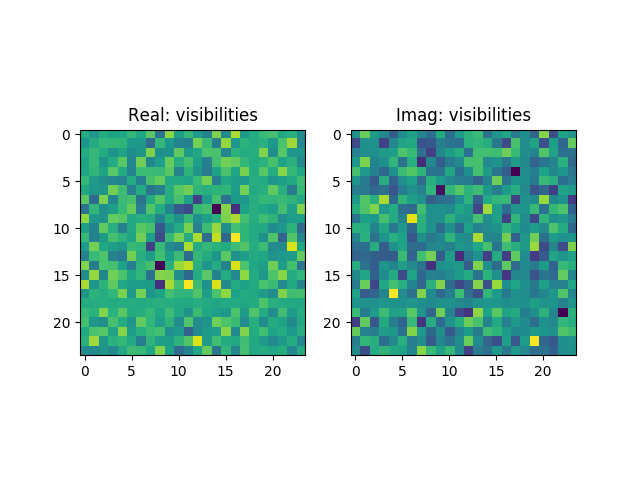
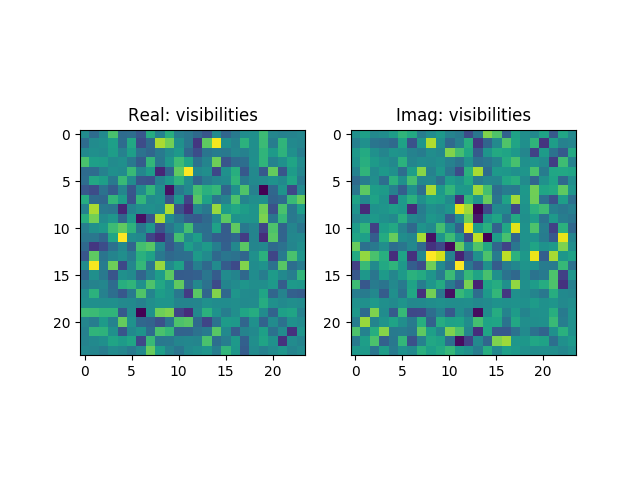
got it to sample visibilites

Changed region(s): [[0.5312, 0.25, 0.9062, 0.75], [0.125, 0.25, 0.5, 0.75]]

diff --git a/example.lsm.html b/example.lsm.html
@@ -1,0 +1,88 @@
+<html><head>
+<meta http-equiv="content-type" content="text/html; charset=windows-1252"></head><body mdltype="SkyModel">
+<h1>Source list</h1>
+<table frame="box" rules="all" cellpadding="5" border="1">
+<tbody><tr mdltype="Source"><td mdltype="str" mdlval="'14_J1845M76'"><a>name:14_J1845M76</a> </td> <td mdltype="Position"><a mdltype="float" mdlval="4.9793225450667888"></a><a>ra:4.97932254507</a>  <a mdltype="float" mdlval="-1.3155380451812768"></a><a>dec:-1.31553804518</a>  </td> <td mdltype="Polarization"><a mdltype="float" mdlval="0.19389999999999999"></a><a>I:0.1939</a>  <a mdltype="int" mdlval="0"></a><a>Q:0</a>  <a mdltype="int" mdlval="0"></a><a>U:0</a>  <a mdltype="int" mdlval="0"></a><a>V:0</a>  </td> <td mdltype="float" mdlattr="r" mdlval="0.015129586926423459"><a>r:0.0151295869264</a> </td> </tr>
+
+<tr mdltype="Source"><td mdltype="str" mdlval="'16_J1845M76'"><a>name:16_J1845M76</a> </td> <td mdltype="Position"><a mdltype="float" mdlval="4.9810780554060861"></a><a>ra:4.98107805541</a>  <a mdltype="float" mdlval="-1.3043495150486313"></a><a>dec:-1.30434951505</a>  </td> <td mdltype="Polarization"><a mdltype="float" mdlval="0.060199999999999997"></a><a>I:0.0602</a>  <a mdltype="int" mdlval="0"></a><a>Q:0</a>  <a mdltype="int" mdlval="0"></a><a>U:0</a>  <a mdltype="int" mdlval="0"></a><a>V:0</a>  </td> <td mdltype="float" mdlattr="r" mdlval="0.011050735118466508"><a>r:0.0110507351185</a> </td> </tr>
+
+<tr mdltype="Source"><td mdltype="str" mdlval="'17_J1930M76'"><a>name:17_J1930M76</a> </td> <td mdltype="Position"><a mdltype="float" mdlval="4.9814096679639652"></a><a>ra:4.98140966796</a>  <a mdltype="float" mdlval="-1.3053317475665589"></a><a>dec:-1.30533174757</a>  </td> <td mdltype="Polarization"><a mdltype="float" mdlval="0.0998"></a><a>I:0.0998</a>  <a mdltype="int" mdlval="0"></a><a>Q:0</a>  <a mdltype="int" mdlval="0"></a><a>U:0</a>  <a mdltype="int" mdlval="0"></a><a>V:0</a>  </td> <td mdltype="float" mdlattr="r" mdlval="0.01089473246548155"><a>r:0.0108947324655</a> </td> </tr>
+
+<tr mdltype="Source"><td mdltype="str" mdlval="'18_J1930M76'"><a>name:18_J1930M76</a> </td> <td mdltype="Position"><a mdltype="float" mdlval="4.9842247386033289"></a><a>ra:4.9842247386</a>  <a mdltype="float" mdlval="-1.2928240394076143"></a><a>dec:-1.29282403941</a>  </td> <td mdltype="Polarization"><a mdltype="float" mdlval="0.063200000000000006"></a><a>I:0.0632</a>  <a mdltype="int" mdlval="0"></a><a>Q:0</a>  <a mdltype="int" mdlval="0"></a><a>U:0</a>  <a mdltype="int" mdlval="0"></a><a>V:0</a>  </td> <td mdltype="float" mdlattr="r" mdlval="0.01630501556684372"><a>r:0.0163050155668</a> </td> </tr>
+
+<tr mdltype="Source"><td mdltype="str" mdlval="'20_J1845M76'"><a>name:20_J1845M76</a> </td> <td mdltype="Position"><a mdltype="float" mdlval="4.9901617669421956"></a><a>ra:4.99016176694</a>  <a mdltype="float" mdlval="-1.3130242862447241"></a><a>dec:-1.31302428624</a>  </td> <td mdltype="Polarization"><a mdltype="float" mdlval="0.14580000000000001"></a><a>I:0.1458</a>  <a mdltype="int" mdlval="0"></a><a>Q:0</a>  <a mdltype="int" mdlval="0"></a><a>U:0</a>  <a mdltype="int" mdlval="0"></a><a>V:0</a>  </td> <td mdltype="float" mdlattr="r" mdlval="0.011405302125507446"><a>r:0.0114053021255</a> </td> </tr>
+
+<tr mdltype="Source"><td mdltype="str" mdlval="'21_J1930M76'"><a>name:21_J1930M76</a> </td> <td mdltype="Position"><a mdltype="float" mdlval="4.9941716608986519"></a><a>ra:4.9941716609</a>  <a mdltype="float" mdlval="-1.3066528648475826"></a><a>dec:-1.30665286485</a>  </td> <td mdltype="Polarization"><a mdltype="float" mdlval="0.77569999999999995"></a><a>I:0.7757</a>  <a mdltype="int" mdlval="0"></a><a>Q:0</a>  <a mdltype="int" mdlval="0"></a><a>U:0</a>  <a mdltype="int" mdlval="0"></a><a>V:0</a>  </td> <td mdltype="float" mdlattr="r" mdlval="0.0076336473061226241"><a>r:0.00763364730612</a> </td> </tr>
+
+<tr mdltype="Source"><td mdltype="str" mdlval="'22_J1930M72'"><a>name:22_J1930M72</a> </td> <td mdltype="Position"><a mdltype="float" mdlval="4.9979110288210498"></a><a>ra:4.99791102882</a>  <a mdltype="float" mdlval="-1.2886463999174931"></a><a>dec:-1.28864639992</a>  </td> <td mdltype="Polarization"><a mdltype="float" mdlval="1.8819999999999999"></a><a>I:1.882</a>  <a mdltype="int" mdlval="0"></a><a>Q:0</a>  <a mdltype="int" mdlval="0"></a><a>U:0</a>  <a mdltype="int" mdlval="0"></a><a>V:0</a>  </td> <td mdltype="float" mdlattr="r" mdlval="0.018060503909817494"><a>r:0.0180605039098</a> </td> </tr>
+
+<tr mdltype="Source"><td mdltype="str" mdlval="'23_J1930M72'"><a>name:23_J1930M72</a> </td> <td mdltype="Position"><a mdltype="float" mdlval="4.9995414572306212"></a><a>ra:4.99954145723</a>  <a mdltype="float" mdlval="-1.2885775563747757"></a><a>dec:-1.28857755637</a>  </td> <td mdltype="Polarization"><a mdltype="float" mdlval="0.1206"></a><a>I:0.1206</a>  <a mdltype="int" mdlval="0"></a><a>Q:0</a>  <a mdltype="int" mdlval="0"></a><a>U:0</a>  <a mdltype="int" mdlval="0"></a><a>V:0</a>  </td> <td mdltype="float" mdlattr="r" mdlval="0.017964848833106027"><a>r:0.0179648488331</a> </td> </tr>
+
+<tr mdltype="Source"><td mdltype="str" mdlval="'25_J1845M76'"><a>name:25_J1845M76</a> </td> <td mdltype="Position"><a mdltype="float" mdlval="5.0027208653513373"></a><a>ra:5.00272086535</a>  <a mdltype="float" mdlval="-1.297985365856706"></a><a>dec:-1.29798536586</a>  </td> <td mdltype="Polarization"><a mdltype="float" mdlval="0.081600000000000006"></a><a>I:0.0816</a>  <a mdltype="int" mdlval="0"></a><a>Q:0</a>  <a mdltype="int" mdlval="0"></a><a>U:0</a>  <a mdltype="int" mdlval="0"></a><a>V:0</a>  </td> <td mdltype="float" mdlattr="r" mdlval="0.0091528901029056097"><a>r:0.00915289010291</a> </td> </tr>
+
+<tr mdltype="Source"><td mdltype="str" mdlval="'26_J1845M76'"><a>name:26_J1845M76</a> </td> <td mdltype="Position"><a mdltype="float" mdlval="5.0044887384395045"></a><a>ra:5.00448873844</a>  <a mdltype="float" mdlval="-1.3121981637321136"></a><a>dec:-1.31219816373</a>  </td> <td mdltype="Polarization"><a mdltype="float" mdlval="0.082600000000000007"></a><a>I:0.0826</a>  <a mdltype="int" mdlval="0"></a><a>Q:0</a>  <a mdltype="int" mdlval="0"></a><a>U:0</a>  <a mdltype="int" mdlval="0"></a><a>V:0</a>  </td> <td mdltype="float" mdlattr="r" mdlval="0.0083156807346767402"><a>r:0.00831568073468</a> </td> </tr>
+
+<tr mdltype="Source"><td mdltype="str" mdlval="'29_J1845M76'"><a>name:29_J1845M76</a> </td> <td mdltype="Position"><a mdltype="float" mdlval="5.0120358330133357"></a><a>ra:5.01203583301</a>  <a mdltype="float" mdlval="-1.3111412699072946"></a><a>dec:-1.31114126991</a>  </td> <td mdltype="Polarization"><a mdltype="float" mdlval="0.15310000000000001"></a><a>I:0.1531</a>  <a mdltype="int" mdlval="0"></a><a>Q:0</a>  <a mdltype="int" mdlval="0"></a><a>U:0</a>  <a mdltype="int" mdlval="0"></a><a>V:0</a>  </td> <td mdltype="float" mdlattr="r" mdlval="0.0064072108414104829"><a>r:0.00640721084141</a> </td> </tr>
+
+<tr mdltype="Source"><td mdltype="str" mdlval="'30_J1930M76'"><a>name:30_J1930M76</a> </td> <td mdltype="Position"><a mdltype="float" mdlval="5.0142749449995394"></a><a>ra:5.014274945</a>  <a mdltype="float" mdlval="-1.2996007650421633"></a><a>dec:-1.29960076504</a>  </td> <td mdltype="Polarization"><a mdltype="float" mdlval="0.1525"></a><a>I:0.1525</a>  <a mdltype="int" mdlval="0"></a><a>Q:0</a>  <a mdltype="int" mdlval="0"></a><a>U:0</a>  <a mdltype="int" mdlval="0"></a><a>V:0</a>  </td> <td mdltype="float" mdlattr="r" mdlval="0.0062315174697180637"><a>r:0.00623151746972</a> </td> </tr>
+
+<tr mdltype="Source"><td mdltype="str" mdlval="'31_J1845M76'"><a>name:31_J1845M76</a> </td> <td mdltype="Position"><a mdltype="float" mdlval="5.0194709356268321"></a><a>ra:5.01947093563</a>  <a mdltype="float" mdlval="-1.2966661878304071"></a><a>dec:-1.29666618783</a>  </td> <td mdltype="Polarization"><a mdltype="float" mdlval="0.1167"></a><a>I:0.1167</a>  <a mdltype="int" mdlval="0"></a><a>Q:0</a>  <a mdltype="int" mdlval="0"></a><a>U:0</a>  <a mdltype="int" mdlval="0"></a><a>V:0</a>  </td> <td mdltype="float" mdlattr="r" mdlval="0.0087758148399466156"><a>r:0.00877581483995</a> </td> </tr>
+
+<tr mdltype="Source"><td mdltype="str" mdlval="'32_J1845M76'"><a>name:32_J1845M76</a> </td> <td mdltype="Position"><a mdltype="float" mdlval="5.0201610679018911"></a><a>ra:5.0201610679</a>  <a mdltype="float" mdlval="-1.3076452784528139"></a><a>dec:-1.30764527845</a>  </td> <td mdltype="Polarization"><a mdltype="float" mdlval="0.1721"></a><a>I:0.1721</a>  <a mdltype="int" mdlval="0"></a><a>Q:0</a>  <a mdltype="int" mdlval="0"></a><a>U:0</a>  <a mdltype="int" mdlval="0"></a><a>V:0</a>  </td> <td mdltype="float" mdlattr="r" mdlval="0.0023664618364341739"><a>r:0.00236646183643</a> </td> </tr>
+
+<tr mdltype="Source"><td mdltype="str" mdlval="'33_J1845M76'"><a>name:33_J1845M76</a> </td> <td mdltype="Position"><a mdltype="float" mdlval="5.0211886304990028"></a><a>ra:5.0211886305</a>  <a mdltype="float" mdlval="-1.3077015168398225"></a><a>dec:-1.30770151684</a>  </td> <td mdltype="Polarization"><a mdltype="float" mdlval="0.10589999999999999"></a><a>I:0.1059</a>  <a mdltype="int" mdlval="0"></a><a>Q:0</a>  <a mdltype="int" mdlval="0"></a><a>U:0</a>  <a mdltype="int" mdlval="0"></a><a>V:0</a>  </td> <td mdltype="float" mdlattr="r" mdlval="0.0023533899470462535"><a>r:0.00235338994705</a> </td> </tr>
+
+<tr mdltype="Source"><td mdltype="str" mdlval="'34_J1930M76'"><a>name:34_J1930M76</a> </td> <td mdltype="Position"><a mdltype="float" mdlval="5.0214686103998432"></a><a>ra:5.0214686104</a>  <a mdltype="float" mdlval="-1.2984755124883083"></a><a>dec:-1.29847551249</a>  </td> <td mdltype="Polarization"><a mdltype="float" mdlval="0.069900000000000004"></a><a>I:0.0699</a>  <a mdltype="int" mdlval="0"></a><a>Q:0</a>  <a mdltype="int" mdlval="0"></a><a>U:0</a>  <a mdltype="int" mdlval="0"></a><a>V:0</a>  </td> <td mdltype="float" mdlattr="r" mdlval="0.0069287091436383537"><a>r:0.00692870914364</a> </td> </tr>
+
+<tr mdltype="Source"><td mdltype="str" mdlval="'35_J1845M76'"><a>name:35_J1845M76</a> </td> <td mdltype="Position"><a mdltype="float" mdlval="5.0225478056539927"></a><a>ra:5.02254780565</a>  <a mdltype="float" mdlval="-1.3073897816428692"></a><a>dec:-1.30738978164</a>  </td> <td mdltype="Polarization"><a mdltype="float" mdlval="0.223"></a><a>I:0.223</a>  <a mdltype="int" mdlval="0"></a><a>Q:0</a>  <a mdltype="int" mdlval="0"></a><a>U:0</a>  <a mdltype="int" mdlval="0"></a><a>V:0</a>  </td> <td mdltype="float" mdlattr="r" mdlval="0.001999264926316858"><a>r:0.00199926492632</a> </td> </tr>
+
+<tr mdltype="Source"><td mdltype="str" mdlval="'36_J1845M76'"><a>name:36_J1845M76</a> </td> <td mdltype="Position"><a mdltype="float" mdlval="5.0254261444787405"></a><a>ra:5.02542614448</a>  <a mdltype="float" mdlval="-1.296886293241631"></a><a>dec:-1.29688629324</a>  </td> <td mdltype="Polarization"><a mdltype="float" mdlval="0.29149999999999998"></a><a>I:0.2915</a>  <a mdltype="int" mdlval="0"></a><a>Q:0</a>  <a mdltype="int" mdlval="0"></a><a>U:0</a>  <a mdltype="int" mdlval="0"></a><a>V:0</a>  </td> <td mdltype="float" mdlattr="r" mdlval="0.0085324589432205222"><a>r:0.00853245894322</a> </td> </tr>
+
+<tr mdltype="Source"><td mdltype="str" mdlval="'37_J1845M76'"><a>name:37_J1845M76</a> </td> <td mdltype="Position"><a mdltype="float" mdlval="5.0263657133927309"></a><a>ra:5.02636571339</a>  <a mdltype="float" mdlval="-1.2970244651407472"></a><a>dec:-1.29702446514</a>  </td> <td mdltype="Polarization"><a mdltype="float" mdlval="0.1275"></a><a>I:0.1275</a>  <a mdltype="int" mdlval="0"></a><a>Q:0</a>  <a mdltype="int" mdlval="0"></a><a>U:0</a>  <a mdltype="int" mdlval="0"></a><a>V:0</a>  </td> <td mdltype="float" mdlattr="r" mdlval="0.0084181016272927862"><a>r:0.00841810162729</a> </td> </tr>
+
+<tr mdltype="Source"><td mdltype="str" mdlval="'38_J1845M76'"><a>name:38_J1845M76</a> </td> <td mdltype="Position"><a mdltype="float" mdlval="5.0277685217790218"></a><a>ra:5.02776852178</a>  <a mdltype="float" mdlval="-1.3190233707347734"></a><a>dec:-1.31902337073</a>  </td> <td mdltype="Polarization"><a mdltype="float" mdlval="0.10970000000000001"></a><a>I:0.1097</a>  <a mdltype="int" mdlval="0"></a><a>Q:0</a>  <a mdltype="int" mdlval="0"></a><a>U:0</a>  <a mdltype="int" mdlval="0"></a><a>V:0</a>  </td> <td mdltype="float" mdlattr="r" mdlval="0.01368544232596625"><a>r:0.013685442326</a> </td> </tr>
+
+<tr mdltype="Source"><td mdltype="str" mdlval="'39_J1930M76'"><a>name:39_J1930M76</a> </td> <td mdltype="Position"><a mdltype="float" mdlval="5.0305275964382155"></a><a>ra:5.03052759644</a>  <a mdltype="float" mdlval="-1.3001553918933524"></a><a>dec:-1.30015539189</a>  </td> <td mdltype="Polarization"><a mdltype="float" mdlval="0.1774"></a><a>I:0.1774</a>  <a mdltype="int" mdlval="0"></a><a>Q:0</a>  <a mdltype="int" mdlval="0"></a><a>U:0</a>  <a mdltype="int" mdlval="0"></a><a>V:0</a>  </td> <td mdltype="float" mdlattr="r" mdlval="0.0056096031168557268"><a>r:0.00560960311686</a> </td> </tr>
+
+<tr mdltype="Source"><td mdltype="str" mdlval="'40_J1845M76'"><a>name:40_J1845M76</a> </td> <td mdltype="Position"><a mdltype="float" mdlval="5.0306628594552452"></a><a>ra:5.03066285946</a>  <a mdltype="float" mdlval="-1.3077446652574414"></a><a>dec:-1.30774466526</a>  </td> <td mdltype="Polarization"><a mdltype="float" mdlval="0.1643"></a><a>I:0.1643</a>  <a mdltype="int" mdlval="0"></a><a>Q:0</a>  <a mdltype="int" mdlval="0"></a><a>U:0</a>  <a mdltype="int" mdlval="0"></a><a>V:0</a>  </td> <td mdltype="float" mdlattr="r" mdlval="0.0030973438358698714"><a>r:0.00309734383587</a> </td> </tr>
+
+<tr mdltype="Source"><td mdltype="str" mdlval="'41_J1845M76'"><a>name:41_J1845M76</a> </td> <td mdltype="Position"><a mdltype="float" mdlval="5.0360297469051281"></a><a>ra:5.03602974691</a>  <a mdltype="float" mdlval="-1.3135633990581177"></a><a>dec:-1.31356339906</a>  </td> <td mdltype="Polarization"><a mdltype="float" mdlval="0.066000000000000003"></a><a>I:0.066</a>  <a mdltype="int" mdlval="0"></a><a>Q:0</a>  <a mdltype="int" mdlval="0"></a><a>U:0</a>  <a mdltype="int" mdlval="0"></a><a>V:0</a>  </td> <td mdltype="float" mdlattr="r" mdlval="0.0088418105844684756"><a>r:0.00884181058447</a> </td> </tr>
+
+<tr mdltype="Source"><td mdltype="str" mdlval="'43_J1930M76'"><a>name:43_J1930M76</a> </td> <td mdltype="Position"><a mdltype="float" mdlval="5.0435972036535661"></a><a>ra:5.04359720365</a>  <a mdltype="float" mdlval="-1.3030671828620966"></a><a>dec:-1.30306718286</a>  </td> <td mdltype="Polarization"><a mdltype="float" mdlval="1.1419999999999999"></a><a>I:1.142</a>  <a mdltype="int" mdlval="0"></a><a>Q:0</a>  <a mdltype="int" mdlval="0"></a><a>U:0</a>  <a mdltype="int" mdlval="0"></a><a>V:0</a>  </td> <td mdltype="float" mdlattr="r" mdlval="0.0059167882891283559"><a>r:0.00591678828913</a> </td> </tr>
+
+<tr mdltype="Source"><td mdltype="str" mdlval="'45_J1845M76'"><a>name:45_J1845M76</a> </td> <td mdltype="Position"><a mdltype="float" mdlval="5.0467380690866346"></a><a>ra:5.04673806909</a>  <a mdltype="float" mdlval="-1.3118287357071079"></a><a>dec:-1.31182873571</a>  </td> <td mdltype="Polarization"><a mdltype="float" mdlval="0.0562"></a><a>I:0.0562</a>  <a mdltype="int" mdlval="0"></a><a>Q:0</a>  <a mdltype="int" mdlval="0"></a><a>U:0</a>  <a mdltype="int" mdlval="0"></a><a>V:0</a>  </td> <td mdltype="float" mdlattr="r" mdlval="0.0089130757764651885"><a>r:0.00891307577647</a> </td> </tr>
+
+<tr mdltype="Source"><td mdltype="str" mdlval="'46_J1930M76'"><a>name:46_J1930M76</a> </td> <td mdltype="Position"><a mdltype="float" mdlval="5.047134404270941"></a><a>ra:5.04713440427</a>  <a mdltype="float" mdlval="-1.312360091501604"></a><a>dec:-1.3123600915</a>  </td> <td mdltype="Polarization"><a mdltype="float" mdlval="0.1852"></a><a>I:0.1852</a>  <a mdltype="int" mdlval="0"></a><a>Q:0</a>  <a mdltype="int" mdlval="0"></a><a>U:0</a>  <a mdltype="int" mdlval="0"></a><a>V:0</a>  </td> <td mdltype="float" mdlattr="r" mdlval="0.0093681629509324276"><a>r:0.00936816295093</a> </td> </tr>
+
+<tr mdltype="Source"><td mdltype="str" mdlval="'47_J1930M76'"><a>name:47_J1930M76</a> </td> <td mdltype="Position"><a mdltype="float" mdlval="5.0507748702023942"></a><a>ra:5.0507748702</a>  <a mdltype="float" mdlval="-1.3011390788523238"></a><a>dec:-1.30113907885</a>  </td> <td mdltype="Polarization"><a mdltype="float" mdlval="0.0746"></a><a>I:0.0746</a>  <a mdltype="int" mdlval="0"></a><a>Q:0</a>  <a mdltype="int" mdlval="0"></a><a>U:0</a>  <a mdltype="int" mdlval="0"></a><a>V:0</a>  </td> <td mdltype="float" mdlattr="r" mdlval="0.0084981010394518473"><a>r:0.00849810103945</a> </td> </tr>
+
+<tr mdltype="Source"><td mdltype="str" mdlval="'49_J1930M76'"><a>name:49_J1930M76</a> </td> <td mdltype="Position"><a mdltype="float" mdlval="5.0551563738454206"></a><a>ra:5.05515637385</a>  <a mdltype="float" mdlval="-1.3047179734462744"></a><a>dec:-1.30471797345</a>  </td> <td mdltype="Polarization"><a mdltype="float" mdlval="0.077399999999999997"></a><a>I:0.0774</a>  <a mdltype="int" mdlval="0"></a><a>Q:0</a>  <a mdltype="int" mdlval="0"></a><a>U:0</a>  <a mdltype="int" mdlval="0"></a><a>V:0</a>  </td> <td mdltype="float" mdlattr="r" mdlval="0.0084863129772227413"><a>r:0.00848631297722</a> </td> </tr>
+
+<tr mdltype="Source"><td mdltype="str" mdlval="'50_J1930M72'"><a>name:50_J1930M72</a> </td> <td mdltype="Position"><a mdltype="float" mdlval="5.057264586137725"></a><a>ra:5.05726458614</a>  <a mdltype="float" mdlval="-1.2923692841747334"></a><a>dec:-1.29236928417</a>  </td> <td mdltype="Polarization"><a mdltype="float" mdlval="0.073700000000000002"></a><a>I:0.0737</a>  <a mdltype="int" mdlval="0"></a><a>Q:0</a>  <a mdltype="int" mdlval="0"></a><a>U:0</a>  <a mdltype="int" mdlval="0"></a><a>V:0</a>  </td> <td mdltype="float" mdlattr="r" mdlval="0.015953481470300162"><a>r:0.0159534814703</a> </td> </tr>
+
+<tr mdltype="Source"><td mdltype="str" mdlval="'51_J1930M76'"><a>name:51_J1930M76</a> </td> <td mdltype="Position"><a mdltype="float" mdlval="5.058593945251328"></a><a>ra:5.05859394525</a>  <a mdltype="float" mdlval="-1.2992536384464888"></a><a>dec:-1.29925363845</a>  </td> <td mdltype="Polarization"><a mdltype="float" mdlval="0.1608"></a><a>I:0.1608</a>  <a mdltype="int" mdlval="0"></a><a>Q:0</a>  <a mdltype="int" mdlval="0"></a><a>U:0</a>  <a mdltype="int" mdlval="0"></a><a>V:0</a>  </td> <td mdltype="float" mdlattr="r" mdlval="0.011273673556167171"><a>r:0.0112736735562</a> </td> </tr>
+
+<tr mdltype="Source"><td mdltype="str" mdlval="'52_J1930M76'"><a>name:52_J1930M76</a> </td> <td mdltype="Position"><a mdltype="float" mdlval="5.0607581535238007"></a><a>ra:5.06075815352</a>  <a mdltype="float" mdlval="-1.3020083497825532"></a><a>dec:-1.30200834978</a>  </td> <td mdltype="Polarization"><a mdltype="float" mdlval="0.41789999999999999"></a><a>I:0.4179</a>  <a mdltype="int" mdlval="0"></a><a>Q:0</a>  <a mdltype="int" mdlval="0"></a><a>U:0</a>  <a mdltype="int" mdlval="0"></a><a>V:0</a>  </td> <td mdltype="float" mdlattr="r" mdlval="0.010537901348827801"><a>r:0.0105379013488</a> </td> </tr>
+
+<tr mdltype="Source"><td mdltype="str" mdlval="'54_J1930M76'"><a>name:54_J1930M76</a> </td> <td mdltype="Position"><a mdltype="float" mdlval="5.06687480533152"></a><a>ra:5.06687480533</a>  <a mdltype="float" mdlval="-1.2991048006463883"></a><a>dec:-1.29910480065</a>  </td> <td mdltype="Polarization"><a mdltype="float" mdlval="0.058299999999999998"></a><a>I:0.0583</a>  <a mdltype="int" mdlval="0"></a><a>Q:0</a>  <a mdltype="int" mdlval="0"></a><a>U:0</a>  <a mdltype="int" mdlval="0"></a><a>V:0</a>  </td> <td mdltype="float" mdlattr="r" mdlval="0.013242544910678918"><a>r:0.0132425449107</a> </td> </tr>
+
+<tr mdltype="Source"><td mdltype="str" mdlval="'55_J1930M76'"><a>name:55_J1930M76</a> </td> <td mdltype="Position"><a mdltype="float" mdlval="5.0701145727555339"></a><a>ra:5.07011457276</a>  <a mdltype="float" mdlval="-1.2976566621809138"></a><a>dec:-1.29765666218</a>  </td> <td mdltype="Polarization"><a mdltype="float" mdlval="0.14810000000000001"></a><a>I:0.1481</a>  <a mdltype="int" mdlval="0"></a><a>Q:0</a>  <a mdltype="int" mdlval="0"></a><a>U:0</a>  <a mdltype="int" mdlval="0"></a><a>V:0</a>  </td> <td mdltype="float" mdlattr="r" mdlval="0.014739513179347687"><a>r:0.0147395131793</a> </td> </tr>
+
+<tr mdltype="Source"><td mdltype="str" mdlval="'59_J1930M76'"><a>name:59_J1930M76</a> </td> <td mdltype="Position"><a mdltype="float" mdlval="5.0911574257704117"></a><a>ra:5.09115742577</a>  <a mdltype="float" mdlval="-1.2910549542852456"></a><a>dec:-1.29105495429</a>  </td> <td mdltype="Polarization"><a mdltype="float" mdlval="0.057500000000000002"></a><a>I:0.0575</a>  <a mdltype="int" mdlval="0"></a><a>Q:0</a>  <a mdltype="int" mdlval="0"></a><a>U:0</a>  <a mdltype="int" mdlval="0"></a><a>V:0</a>  </td> <td mdltype="float" mdlattr="r" mdlval="0.023288801407984883"><a>r:0.023288801408</a> </td> </tr>
+
+<tr mdltype="Source"><td mdltype="str" mdlval="'63_J1930M76'"><a>name:63_J1930M76</a> </td> <td mdltype="Position"><a mdltype="float" mdlval="5.1057505599786497"></a><a>ra:5.10575055998</a>  <a mdltype="float" mdlval="-1.306137507904563"></a><a>dec:-1.3061375079</a>  </td> <td mdltype="Polarization"><a mdltype="float" mdlval="0.2515"></a><a>I:0.2515</a>  <a mdltype="int" mdlval="0"></a><a>Q:0</a>  <a mdltype="int" mdlval="0"></a><a>U:0</a>  <a mdltype="int" mdlval="0"></a><a>V:0</a>  </td> <td mdltype="float" mdlattr="r" mdlval="0.021695668618777832"><a>r:0.0216956686188</a> </td> </tr>
+
+</tbody></table>
+<h1>Plot styles</h1>
+<a mdltype="dict" mdlattr="plotstyles"></a><table frame="box" rules="all" cellpadding="5" border="1">
+<tbody><tr mdltype="PlotStyle" mdlattr="current"><td bgcolor="yellow">current</td><td mdltype="int" mdlattr="apply" mdlval="-2"><a>apply:-2</a> </td> <td mdltype="str" mdlattr="label" mdlval="'%N %BJy'"><a>label:%N %BJy</a> </td> <td mdltype="str" mdlattr="label_color" mdlval="'red'"><a>label_color:red</a> </td> <td mdltype="int" mdlattr="label_size" mdlval="12"><a>label_size:12</a> </td> <td mdltype="int" mdlattr="show_list" mdlval="2"><a>show_list:2</a> </td> <td mdltype="int" mdlattr="show_plot" mdlval="2"><a>show_plot:2</a> </td> <td mdltype="str" mdlattr="symbol" mdlval="'default'"><a>symbol:default</a> </td> <td mdltype="str" mdlattr="symbol_color" mdlval="'red'"><a>symbol_color:red</a> </td> <td mdltype="str" mdlattr="symbol_linewidth" mdlval="'default'"><a>symbol_linewidth:default</a> </td> <td mdltype="str" mdlattr="symbol_size" mdlval="'default'"><a>symbol_size:default</a> </td> </tr>
+<tr mdltype="PlotStyle" mdlattr="default"><td bgcolor="yellow">default</td><td mdltype="int" mdlattr="apply" mdlval="1000"><a>apply:1000</a> </td> <td mdltype="str" mdlattr="label" mdlval="'none'"><a>label:none</a> </td> <td mdltype="str" mdlattr="label_color" mdlval="'blue'"><a>label_color:blue</a> </td> <td mdltype="int" mdlattr="label_size" mdlval="6"><a>label_size:6</a> </td> <td mdltype="int" mdlattr="show_list" mdlval="2"><a>show_list:2</a> </td> <td mdltype="int" mdlattr="show_plot" mdlval="2"><a>show_plot:2</a> </td> <td mdltype="str" mdlattr="symbol" mdlval="'plus'"><a>symbol:plus</a> </td> <td mdltype="str" mdlattr="symbol_color" mdlval="'yellow'"><a>symbol_color:yellow</a> </td> <td mdltype="int" mdlattr="symbol_size" mdlval="2"><a>symbol_size:2</a> </td> </tr>
+<tr mdltype="PlotStyle" mdlattr="selected"><td bgcolor="yellow">selected</td><td mdltype="int" mdlattr="apply" mdlval="-1"><a>apply:-1</a> </td> <td mdltype="str" mdlattr="label" mdlval="'%N'"><a>label:%N</a> </td> <td mdltype="str" mdlattr="label_color" mdlval="'green'"><a>label_color:green</a> </td> <td mdltype="str" mdlattr="label_size" mdlval="'default'"><a>label_size:default</a> </td> <td mdltype="int" mdlattr="show_list" mdlval="2"><a>show_list:2</a> </td> <td mdltype="int" mdlattr="show_plot" mdlval="2"><a>show_plot:2</a> </td> <td mdltype="str" mdlattr="symbol" mdlval="'default'"><a>symbol:default</a> </td> <td mdltype="str" mdlattr="symbol_color" mdlval="'cyan'"><a>symbol_color:cyan</a> </td> <td mdltype="str" mdlattr="symbol_linewidth" mdlval="'default'"><a>symbol_linewidth:default</a> </td> <td mdltype="str" mdlattr="symbol_size" mdlval="'default'"><a>symbol_size:default</a> </td> </tr>
+<tr mdltype="PlotStyle" mdlattr="tag:r"><td bgcolor="yellow">tag:r</td><td mdltype="int" mdlattr="apply" mdlval="1000"><a>apply:1000</a> </td> <td mdltype="str" mdlattr="label" mdlval="'default'"><a>label:default</a> </td> <td mdltype="str" mdlattr="label_color" mdlval="'default'"><a>label_color:default</a> </td> <td mdltype="str" mdlattr="label_size" mdlval="'default'"><a>label_size:default</a> </td> <td mdltype="str" mdlattr="symbol" mdlval="'default'"><a>symbol:default</a> </td> <td mdltype="str" mdlattr="symbol_color" mdlval="'default'"><a>symbol_color:default</a> </td> <td mdltype="str" mdlattr="symbol_linewidth" mdlval="'default'"><a>symbol_linewidth:default</a> </td> <td mdltype="str" mdlattr="symbol_size" mdlval="'default'"><a>symbol_size:default</a> </td> </tr>
+ </tbody></table>
+
+<h1>Other properties</h1>
+<p><a mdltype="float" mdlattr="ra0" mdlval="5.0229435717091961"></a><a>Field centre ra: 5.02294357171</a>  <a mdltype="float" mdlattr="dec0" mdlval="-1.3053931924309257"></a><a>dec: -1.30539319243</a>  </p>
+<p><a mdltype="str" mdlattr="ASCII_Format" mdlval="'name ra_h ra_m ra_s dec_d dec_m dec_s i'"></a><a>ASCII_Format:name ra_h ra_m ra_s dec_d dec_m dec_s i</a>  </p>
+
+</body></html>

diff --git a/html/index.html b/html/index.html
@@ -6,27 +6,49 @@
     <script type="text/javascript">
       $(document).ready(function() {
         $("#generate_graphs").click(function(e) {
-          $.get("/generate_graphs")
+          $.post("/generate_graphs",{input_file:$("#input_file").val()})
            .done(function(string) {
              var unique = $.now();
-             $('#antenna').attr('src', 'static/AntennaLayout.png?' + unique);
+             $('#antenna').attr('src', 'static/TARTAntennaLayout.png?' + unique);
              $('#visibilities').attr('src', 'static/Antenna_Visibilities.png?' + unique);
-             alert("done");
+             alert("Graphs Generated");
           });
           e.preventDefault();
         });
       });
+      // $(document).ready( function () {
+  		// $('#form').submit( function () {
+      //   e.preventDefault();
+
+        // var input_file = $("#input_file").val().split("\\");
+        // var input = input_file[input_file.length()]
+        // $.post('generate_graphs', {input_file: }, function(data) { });
+
+  			// var formdata = $(this).serialize();
+  			// $.post({
+  			//     type: "POST",
+  			//     url: "generate_graphs",
+  			//     data: formdata,
+  			//  });
+  		// 	return false;
+  		// });
+  	// });
     </script>
   {% endblock %}
   {% block body %}
     <div class="col-sm-12">
       <h1>{{ target }}</h1>
+      <!-- <form method="post" action="generate_graphs" enctype="multipart/form-data" id="form">
+          <input type="file" name="input_file" id="input_file">
+          <button type="submit" />Generate new graphs
+      </form> -->
+      <input type="file" name="input_file" id="input_file">
       <button type="submit" id="generate_graphs">Generate new graphs</button>
       <br>
     </div>
     <br>
     <div class="col-sm-6">
-      <img src="static/AntennaLayout.png" alt="image alt text" id=antenna  width="512" height="384">
+      <img src="static/TARTAntennaLayout.png" alt="image alt text" id=antenna  width="512" height="384">
     </div>
     <div class="col-sm-6">
       <img src="static/Antenna_Visibilities.png" alt="image alt text" id=visibilities width="512" height="384">

diff --git a/Utilities.py b/Utilities.py
@@ -7,9 +7,11 @@ import math
 from mpl_toolkits.mplot3d import Axes3D
 from matplotlib.patches import Ellipse
 import matplotlib.pylab as pl
+import Tigger
+model = Tigger.load("example.lsm.html")
 
-h = np.linspace(-12,12,num=600)*np.pi/12
-dec = 0
+# h = np.linspace(-12,12,num=600)*np.pi/12
+# dec = 0
 
 def draw_matrix(matrix):
     plt.figure()
@@ -55,7 +57,6 @@ def get_B(b_ENU, L):
     D = math.sqrt(np.sum((b_ENU)**2))
     A = np.arctan2(b_ENU[0],b_ENU[1])
     E = np.arcsin(b_ENU[2]/D)
-    # plotBL.sphere(ant1,ant2,A,E,D,L)
     B = np.array([D * (math.cos(L)*math.sin(E) - math.sin(L) * math.cos(E)*math.cos(A)),
                 D * (math.cos(E)*math.sin(A)),
                 D * (math.sin(L)*math.sin(E) + math.cos(L) * math.cos(E)*math.cos(A))])
@@ -101,11 +102,12 @@ def UVellipse(u,v,w,a,b,v0):
     ax.grid(True)
     plt.savefig('Plots/UVCoverage.png')
 
-def plot_baseline(b_ENU, L, f, ant1, ant2):
+def plot_baseline(b_ENU, L, f, h0, h1, dec):
+    # dec = model.dec0
     B = get_B(b_ENU, L)
 
     lam = get_lambda(f)
-    # h = np.linspace(-12,12,num=time_steps)*np.pi/12
+    h = np.linspace(h0,h1,num=600)*np.pi/12
     X = B[0]
     Y = B[1]
     Z = B[2]
@@ -125,33 +127,63 @@ def plot_array(antennas, name):
     plt.xlabel('E-W [m]')
     plt.ylabel('N-S [m]')
     plt.title(name + ' Array Layout')
-    plt.savefig('Plots/AntennaLayout.png')
+    plt.savefig('Plots/' + name + 'AntennaLayout.png')
 
-def plot_visibilities(u, v, b_ENU, L, f):
+def plot_visibilities(b_ENU, L, f, h0, h1):
+    h = np.linspace(h0,h1,num=600)*np.pi/12
 
     #################################################################################################
-    RA_sources = np.array([-4 + 44/60.0 + 6.686/3600, -4 + 44/60.0 + 6.686/3600])
-    DEC_sources = np.array([-74 + 39/60.0 + 37.481/3600, -73 + 39.0/60.0 + 37.298/3600])
-    Flux_sources_labels = np.array(["1 Jy","0.2 Jy"])
-    Flux_sources = np.array([1,0.2]) #in Jy
+    RA_sources = []
+    DEC_sources = []
+    Flux_sources_labels = []
+    Flux_sources = []
+    for val in model.sources:
+        RA_sources.append(val.pos.ra)
+        DEC_sources.append(val.pos.dec)
+        Flux_sources_labels.append(str(val.flux.I))
+        Flux_sources.append(val.flux.I)
+    RA_sources = np.array(RA_sources)
+    DEC_sources = np.array(DEC_sources)
+    Flux_sources_labels = np.array(Flux_sources_labels)
+    Flux_sources = np.array(Flux_sources)
+
+    ra_0 = model.ra0
+    dec_0 = model.dec0
+    ra_0_rad = ra_0 * (np.pi/12)
+    dec_0_rad = dec_0 * (np.pi/180)
+
     step_size = 200
-    print("Phase center     Source 1")
-    print("RA="+str(RA_sources))
-    print("DEC="+str(DEC_sources))
     RA_rad = np.array(RA_sources)*(np.pi/12)
     DEC_rad = np.array(DEC_sources)*(np.pi/180)
-    RA_delta_rad = RA_rad-RA_rad[0]
+    RA_delta_rad = RA_rad-ra_0_rad
+
 
     l = np.cos(DEC_rad)*np.sin(RA_delta_rad)
-    m = (np.sin(DEC_rad)*np.cos(DEC_rad[0])-np.cos(DEC_rad)*np.sin(DEC_rad[0])*np.cos(RA_delta_rad))
-    print("l=",l)
-    print("m=",m)
+    m = (np.sin(DEC_rad)*np.cos(dec_0_rad)-np.cos(DEC_rad)*np.sin(dec_0_rad)*np.cos(RA_delta_rad))
 
     point_sources = np.zeros((len(RA_sources),3))
     point_sources[:,0] = Flux_sources
     point_sources[:,1] = l[0:]
     point_sources[:,2] = m[0:]
-    dec = DEC_sources[0]
+    dec = dec_0
+
+    # Plot sky model in L and M
+    fig = plt.figure(figsize=(10,10))
+    ax = fig.add_subplot(111)
+    plt.xlim([-4,4])
+    plt.ylim([-4,4])
+    plt.xlabel("$l$ [degrees]")
+    plt.ylabel("$m$ [degrees]")
+    plt.plot(l[0],m[0],"bx")
+    plt.plot(l[1:]*(180/np.pi),m[1:]*(180/np.pi),"ro")
+    counter = 1
+    for xy in zip(l[1:]*(180/np.pi)+0.25, m[1:]*(180/np.pi)+0.25):
+        ax.annotate(Flux_sources_labels[counter], xy=xy, textcoords='offset points',horizontalalignment='right',
+                    verticalalignment='bottom')
+        counter = counter + 1
+
+    plt.grid()
+    plt.savefig("Plots/SkyModel.png")
     #################################################################################################
 
     B = get_B(b_ENU, L)

diff --git a/Pipeline.py b/Pipeline.py
@@ -3,6 +3,7 @@ import numpy as np
 import Utilities as ut
 import cherrypy
 import os
+import json
 from jinja2 import Environment, FileSystemLoader
 env = Environment(loader=FileSystemLoader('html'))
 
@@ -42,22 +43,44 @@ class pipeline(object):
         return i+1,j
 
     @cherrypy.expose
-    def generate_graphs(self):
-        visibilities = self.make_vis_matrix()
-        ut.plot_array(layout, "TART")
-        b12 = layout[1] - layout[2]
-        ## Need Declination before I can continue propely. Need to figure out how to extract that from the
-        ## JSON data.
-        ut.plot_baseline(b12, L, f, layout[0], layout[1])
-        ut.plot_visibilities(0,0, b12, L, f)
+    def generate_graphs(self, input_file=None):
+        upload_path = os.path.dirname(__file__)
+        if input_file is not "":
+            input_file = input_file.split("\\")[-1]
+            input_file = os.path.normpath(
+            os.path.join(upload_path, input_file))
+            with open(input_file) as outfile:
+                json_antenna = json.load(outfile)
+            custom_layout = np.array(json_antenna['antennas'])
+            ut.plot_array(custom_layout, "Custom")
+            b12 = custom_layout[1] - custom_layout[0]
+            custom_L = json_antenna['latitude']
+            custom_L = (np.pi/180)* (custom_L[0] + custom_L[1]/60. + custom_L[2]/3600.)
+            custom_f = json_antenna['frequency']
+            custom_f = custom_f  * 10**9  
+            sha = json_antenna['sha']
+            eha = json_antenna['eha']
+            dec = json_antenna['center_dec']
+            dec = dec[0] + dec[1]/60. + dec[2]/3600.
+            # asc = json_antenna['center_asc']
+            ut.plot_baseline(b12, custom_L, custom_f, sha, eha, dec)
+            ut.plot_visibilities(b12, custom_L, custom_f, sha, eha)
+
+        # visibilities = self.make_vis_matrix()
+        # ut.plot_array(layout, "TART")
+        # b12 = layout[1] - layout[2]
+        # ## Need Declination before I can continue propely. Need to figure out how to extract that from the
+        # ## JSON data.
+        # ut.plot_baseline(b12, L, f, layout[0], layout[1])
+        # ut.plot_visibilities(0,0, b12, L, f)
 
     @cherrypy.expose
     def index(self):
         tmpl = env.get_template('index.html')
-        global layout
-        layout = self.get_antenna_layout()
-        global L, f
-        L,f = TR.get_latitude_and_frequency()
+        # global layout
+        # layout = self.get_antenna_layout()
+        # global L, f
+        # L,f = TR.get_latitude_and_frequency()
         return tmpl.render(target='Imaging pipeline')
 
 if __name__ == '__main__':
